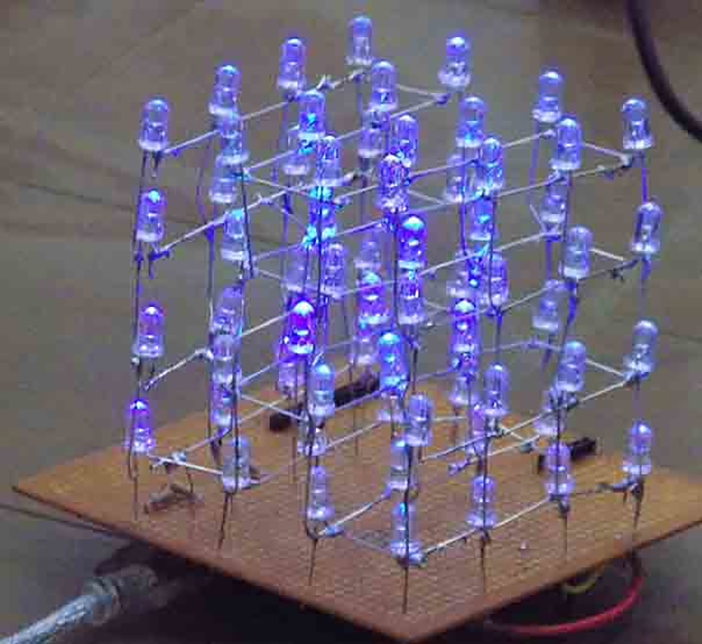
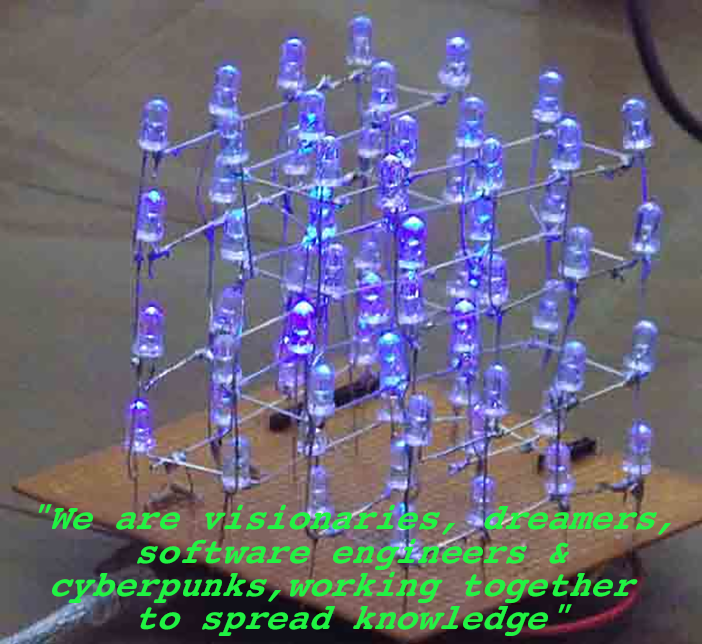
image rendering

Changed region(s): [[0.0598, 0.7764, 0.9573, 0.9938]]

diff --git a/index.html b/index.html
@@ -50,13 +50,13 @@
 							<div class="item active">
 							  <img src="img/1.png" >
 							  <div class="carousel-caption"  >
-								<h4 style="color:white;">"We are visionaries, dreamers, software engineers & cyberpunks, working together to spread knowledge"</h4>
+								<!--<h4 style="color:white;">"We are visionaries, dreamers, software engineers & cyberpunks, working together to spread knowledge"</h4>-->
 							  </div>
 							</div>
 							<div class="item">
 							  <img src="img/2.jpg" >
 							  <div class="carousel-caption">
-								<h4 style="color:white;">Our activities include technical talks , workshops and seminars.  </h4>
+								<!--<h4 style="color:white;">Our activities include technical talks , workshops and seminars.  </h4>-->
 							  </div>
 							</div>
 							
